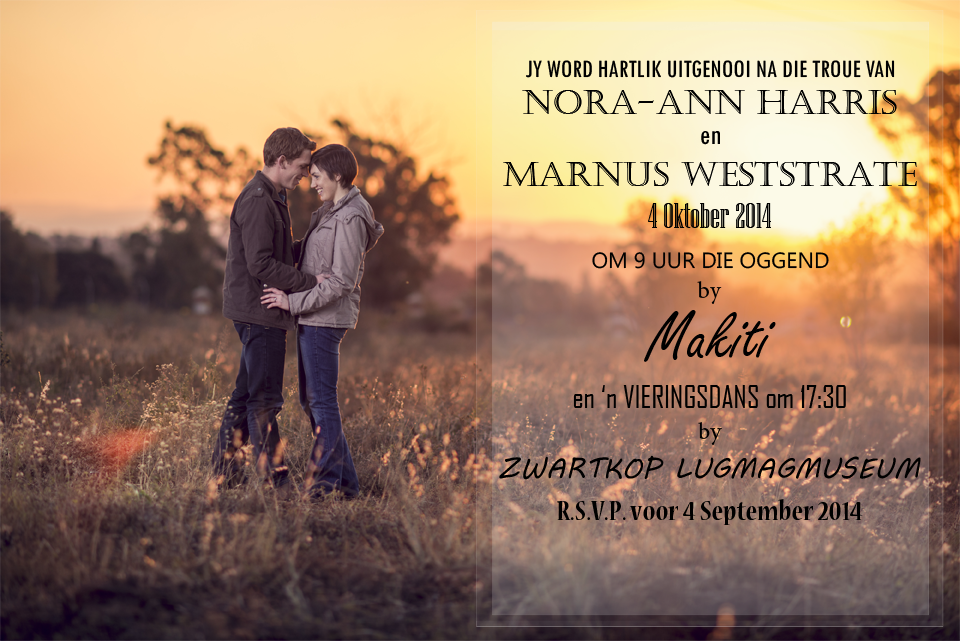
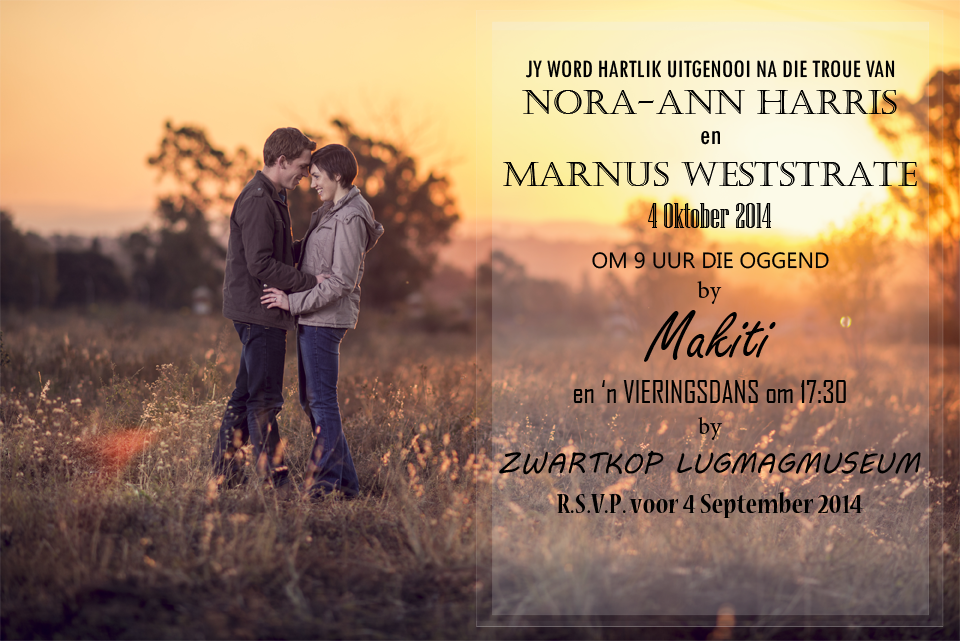
Added RSVP thank you messages and positioned all content.

Changed region(s): [[0.5, 0.5928, 0.9688, 0.8112]]

diff --git a/public/js/main.js b/public/js/main.js
@@ -15,8 +15,10 @@ function queryGuests() {
 }
 
 $(document).ready(function() {
-    queryGuests();
-    resetAnimation();
+    if ($('#invite').length) {
+        queryGuests();
+        resetAnimation();
+    }
 });
 
 $(document).on('click', '#BeginClick', function() {
@@ -48,27 +50,49 @@ $(document).on('click', '#Resubmit', function() {
     showRsvpForm(true);
 });
 
-$(document).on('submit', '#rsvp-form', function() {
-    var gEl = $('input[name="guestRsvp"]:checked');
-    var pEl = $('input[name="partnerRsvp"]:checked');
-    if (!gEl) {
+$(document).on('click', '#rsvp-submit', function() {
+    var gAttend = extractRsvp('guest'),
+        pAttend;
+    if (partner) {
+        pAttend = extractRsvp('partner');
+    }
+    
+    if (!gAttend[0] && !gAttend[1] && !gAttend[2]) {
         alert("Dui asseblief aan of jy die troue sal kan bywoon.");
         return false;
     }
-    if (partner && !pEl) {
+    if (partner && !pAttend[0] && !pAttend[1] && !pAttend[2]) {
         alert("Dui asseblief aan of jou metgesel die troue sal kan bywoon.");
         return false;
     }
-    guest.attendMorning = (guest.inviteMorning & (gEl.val() == 'true' ? true : false)) ? true : false;
-    guest.attendEvening = (guest.inviteEvening & (gEl.val() == 'true' ? true : false)) ? true : false;
+    
+    guest.attendMorning = guest.inviteMorning && gAttend[0];
+    guest.attendEvening = guest.inviteEvening && gAttend[1];
     if (partner) {
-        partner.attendMorning = (partner.inviteMorning & (pEl.val() == 'true' ? true : false)) ? true : false;
-        partner.attendEvening = (partner.inviteEvening & (pEl.val() == 'true' ? true : false)) ? true : false;
+        partner.attendMorning = partner.inviteMorning && pAttend[0];
+        partner.attendEvening = partner.inviteEvening && pAttend[1];
     }
     saveToServer();
     showRsvpDone();
     return false;
 });
+
+$(document).on('click', '.rsvp-change', function() {
+    showRsvpForm(true);
+});
+
+function extractRsvp(type) {
+    if ($('input[name="guestRsvp"]').length) {
+        var attend = $('input[name="'+type+'Rsvp"]:checked').val() == 'true' ? true : false;
+        return [attend, attend, !attend];
+    } else {
+        return [
+            $('input[name="'+type+'RsvpMorn"]').prop('checked'),
+            $('input[name="'+type+'RsvpEven"]').prop('checked'),
+            $('input[name="'+type+'RsvpNo"]').prop('checked')
+        ];
+    }
+}
 
 function resetAnimation() {
     $('body').css({'background':'#fff'});
@@ -105,9 +129,10 @@ function showInfo() {
 
 
 function showRsvpForm(force) {
-    if (!showRsvpDone || force) {
+    if (!force && showRsvpDone()) {
         return;
     }
+    $('#rsvp-form').show();
     $('#rsvp-yes').hide();
     $('#rsvp-no').hide();
     var partnerName = '';
@@ -121,11 +146,11 @@ function showRsvpForm(force) {
 
 function showRsvpDone() {
     $('#rsvp-form').hide();
-    if (guest.attendMorning || guest.attendEvening || partner.attendMorning || partner.attendEvening) {
+    if (guest.attendMorning || guest.attendEvening || (partner && (partner.attendMorning || partner.attendEvening))) {
         $('#rsvp-yes').show();
         $('#rsvp-no').hide();
     } else if (guest.attendMorning !== null || guest.attendEvening !== null || 
-            partner.attendMorning !== null || partner.attendEvening !== null) {
+            (partner && (partner.attendMorning !== null || partner.attendEvening !== null))) {
         $('#rsvp-yes').hide();
         $('#rsvp-no').show();
     } else {
@@ -146,13 +171,18 @@ function setupFor(fullName) {
         inviteUrl = partner ? '/js/views/invite-both.html' : '/js/views/invite-both-single.html';
         infoUrl = '/js/views/info-both.html';
     } else if (guest.inviteMorning) {
-        inviteUrl = partner ? '/js/views/invite-both.html' : '/js/views/invite-morn-single.html';
+        inviteUrl = partner ? '/js/views/invite-morn.html' : '/js/views/invite-morn-single.html';
         infoUrl = '/js/views/info-morn.html';
     } else {
-        inviteUrl = partner ? '/js/views/invite-both.html' : '/js/views/invite-even-single.html';
+        inviteUrl = partner ? '/js/views/invite-even.html' : '/js/views/invite-even-single.html';
         infoUrl = '/js/views/info-even.html';
     }
+    saveViewTimeToServer();
     return true;
+}
+
+function saveViewTimeToServer() {
+    console.log(guest);
 }
 
 function saveToServer() {

diff --git a/public/js/views/invite-both.html b/public/js/views/invite-both.html
@@ -2,24 +2,32 @@
     <div id="invite-names"></div>
     <form id="rsvp-form">
         <div class="line">
+            <span class="rsvp-name unit size1of3 txtr">&nbsp;</span>
+            &nbsp;<span>Ek sal kom:</span>
+        </div>
+        <div class="line">
             <span id="guestName" class="rsvp-name unit size1of3 txtr"></span>
-            &nbsp;<input type="radio" name="guestRsvp" value="true" />&nbsp;<span>Ek sal kom</span>
-            &nbsp;<input type="radio" name="guestRsvp" value="false" />&nbsp;<span>Ek sal nie kan kom nie</span>
+            &nbsp;<input type="checkbox" name="guestRsvpMorn" value="true" /><span>Oggend</span>
+            &nbsp;<input type="checkbox" name="guestRsvpEven" value="true" /><span>Aand</span>
+            &nbsp;<input type="checkbox" name="guestRsvpNo" value="false" /><span>Sal nie kan kom nie</span>
         </div>
         <div class="line">
             <span id="partnerName" class="rsvp-name unit size1of3 txtr"></span>
-            &nbsp;<input type="radio" name="partnerRsvp" value="true" />&nbsp;<span>Ek sal kom</span>
-            &nbsp;<input type="radio" name="partnerRsvp" value="false" />&nbsp;<span>Ek sal nie kan kom nie</span>
+            &nbsp;<input type="checkbox" name="partnerRsvpMorn" value="true" /><span>Oggend</span>
+            &nbsp;<input type="checkbox" name="partnerRsvpEven" value="true" /><span>Aand</span>
+            &nbsp;<input type="checkbox" name="partnerRsvpNo" value="false" /><span>Sal nie kan kom nie</span>
         </div>
         <div class="txtc" style="margin-top: 5px">
-            <button class="btn" type="submit">Gaan voort</button>
+            <button id="rsvp-submit" class="btn">Gaan voort</button>
         </div>
     </form>
     <div id="rsvp-yes">
         <p>Dankie, ons sien uit om julle daar te sien!</p>
+        <a class="rsvp-change">Verander</a>
     </div>
     <div id="rsvp-no">
         <p>Ons sal julle mis! Dankie dat jy laat weet het.</p>
+        <a class="rsvp-change">Verander</a>
     </div>
     <div id="MoreInfo" class="bottom-nav-link"><a>Meer inligting >></a></div>
 </div>

diff --git a/public/js/views/invite-both-single.html b/public/js/views/invite-both-single.html
@@ -1,20 +1,27 @@
 <div class="detail-page" style="background: url(/img/InviteBothSingle.png);">
     <div id="invite-names"></div>
-    <form id="rsvp-form">
+    <form id="rsvp-form" style="bottom: 22px;">
+        <div class="line">
+            <span class="rsvp-name unit size1of3 txtr">&nbsp;</span>
+            &nbsp;<span>Ek sal kom:</span>
+        </div>
         <div class="line">
             <span id="guestName" class="rsvp-name unit size1of3 txtr"></span>
-            &nbsp;<input type="radio" name="guestRsvp" value="true" />&nbsp;<span>Ek sal kom</span>
-            &nbsp;<input type="radio" name="guestRsvp" value="false" />&nbsp;<span>Ek sal nie kan kom nie</span>
+            &nbsp;<input type="checkbox" name="guestRsvpMorn" value="true" /><span>Oggend</span>
+            &nbsp;<input type="checkbox" name="guestRsvpEven" value="true" /><span>Aand</span>
+            &nbsp;<input type="checkbox" name="guestRsvpNo" value="false" /><span>Sal nie kan kom nie</span>
         </div>
-        <div class="txtc" style="margin-top: 5px">
-            <button class="btn" type="submit">Gaan voort</button>
+        <div class="txtc" style="margin-top: 12px">
+            <button id="rsvp-submit" class="btn">Gaan voort</button>
         </div>
     </form>
     <div id="rsvp-yes">
         <p>Dankie, ons sien uit om jou daar te sien!</p>
+        <a class="rsvp-change">Verander</a>
     </div>
     <div id="rsvp-no">
         <p>Ons sal jou mis! Dankie dat jy laat weet het.</p>
+        <a class="rsvp-change">Verander</a>
     </div>
     <div id="MoreInfo" class="bottom-nav-link"><a>Meer inligting >></a></div>
 </div>

diff --git a/public/js/views/invite-morn.html b/public/js/views/invite-morn.html
@@ -1,6 +1,6 @@
 <div class="detail-page" style="background: url(/img/InviteMorning.png);">
-    <div id="invite-names"></div>
-    <form id="rsvp-form">
+    <div id="invite-names" style="top: 36px;"></div>
+    <form id="rsvp-form" style="bottom: 18px;">
         <div class="line">
             <span id="guestName" class="rsvp-name unit size1of3 txtr"></span>
             &nbsp;<input type="radio" name="guestRsvp" value="true" />&nbsp;<span>Ek sal kom</span>
@@ -11,15 +11,17 @@
             &nbsp;<input type="radio" name="partnerRsvp" value="true" />&nbsp;<span>Ek sal kom</span>
             &nbsp;<input type="radio" name="partnerRsvp" value="false" />&nbsp;<span>Ek sal nie kan kom nie</span>
         </div>
-        <div class="txtc" style="margin-top: 5px">
-            <button class="btn" type="submit">Gaan voort</button>
+        <div class="txtc" style="margin-top: 10px">
+            <button id="rsvp-submit" class="btn">Gaan voort</button>
         </div>
     </form>
     <div id="rsvp-yes">
         <p>Dankie, ons sien uit om julle daar te sien!</p>
+        <a class="rsvp-change">Verander</a>
     </div>
     <div id="rsvp-no">
         <p>Ons sal julle mis! Dankie dat jy laat weet het.</p>
+        <a class="rsvp-change">Verander</a>
     </div>
     <div id="MoreInfo" class="bottom-nav-link"><a>Meer inligting >></a></div>
 </div>

diff --git a/public/js/views/invite-even.html b/public/js/views/invite-even.html
@@ -1,6 +1,6 @@
 <div class="detail-page" style="background: url(/img/InviteEvening.png);">
-    <div id="invite-names"></div>
-    <form id="rsvp-form">
+    <div id="invite-names" style="top: 34px;"></div>
+    <form id="rsvp-form" style="bottom: 18px;">
         <div class="line">
             <span id="guestName" class="rsvp-name unit size1of3 txtr"></span>
             &nbsp;<input type="radio" name="guestRsvp" value="true" />&nbsp;<span>Ek sal kom</span>
@@ -11,15 +11,17 @@
             &nbsp;<input type="radio" name="partnerRsvp" value="true" />&nbsp;<span>Ek sal kom</span>
             &nbsp;<input type="radio" name="partnerRsvp" value="false" />&nbsp;<span>Ek sal nie kan kom nie</span>
         </div>
-        <div class="txtc" style="margin-top: 5px">
-            <button class="btn" type="submit">Gaan voort</button>
+        <div class="txtc" style="margin-top: 8px">
+            <button id="rsvp-submit" class="btn">Gaan voort</button>
         </div>
     </form>
     <div id="rsvp-yes">
         <p>Dankie, ons sien uit om julle daar te sien!</p>
+        <a class="rsvp-change">Verander</a>
     </div>
     <div id="rsvp-no">
         <p>Ons sal julle mis! Dankie dat jy laat weet het.</p>
+        <a class="rsvp-change">Verander</a>
     </div>
     <div id="MoreInfo" class="bottom-nav-link"><a>Meer inligting >></a></div>
 </div>

diff --git a/public/js/views/invite-even-single.html b/public/js/views/invite-even-single.html
@@ -1,20 +1,22 @@
 <div class="detail-page" style="background: url(/img/InviteEveningSingle.png);">
-    <div id="invite-names"></div>
-    <form id="rsvp-form">
+    <div id="invite-names" style="top: 34px;"></div>
+    <form id="rsvp-form" style="bottom: 22px;">
         <div class="line">
             <span id="guestName" class="rsvp-name unit size1of3 txtr"></span>
             &nbsp;<input type="radio" name="guestRsvp" value="true" />&nbsp;<span>Ek sal kom</span>
             &nbsp;<input type="radio" name="guestRsvp" value="false" />&nbsp;<span>Ek sal nie kan kom nie</span>
         </div>
-        <div class="txtc" style="margin-top: 5px">
-            <button class="btn" type="submit">Gaan voort</button>
+        <div class="txtc" style="margin-top: 12px">
+            <button id="rsvp-submit" class="btn">Gaan voort</button>
         </div>
     </form>
     <div id="rsvp-yes">
         <p>Dankie, ons sien uit om jou daar te sien!</p>
+        <a class="rsvp-change">Verander</a>
     </div>
     <div id="rsvp-no">
         <p>Ons sal jou mis! Dankie dat jy laat weet het.</p>
+        <a class="rsvp-change">Verander</a>
     </div>
     <div id="MoreInfo" class="bottom-nav-link"><a>Meer inligting >></a></div>
 </div>

diff --git a/public/js/views/invite-morn-single.html b/public/js/views/invite-morn-single.html
@@ -1,20 +1,22 @@
 <div class="detail-page" style="background: url(/img/InviteMorningSingle.png);">
-    <div id="invite-names"></div>
-    <form id="rsvp-form">
+    <div id="invite-names" style="top: 36px;"></div>
+    <form id="rsvp-form" style="bottom: 22px;">
         <div class="line">
             <span id="guestName" class="rsvp-name unit size1of3 txtr"></span>
             &nbsp;<input type="radio" name="guestRsvp" value="true" />&nbsp;<span>Ek sal kom</span>
             &nbsp;<input type="radio" name="guestRsvp" value="false" />&nbsp;<span>Ek sal nie kan kom nie</span>
         </div>
-        <div class="txtc" style="margin-top: 5px">
-            <button class="btn" type="submit">Gaan voort</button>
+        <div class="txtc" style="margin-top: 12px">
+            <button id="rsvp-submit" class="btn">Gaan voort</button>
         </div>
     </form>
     <div id="rsvp-yes">
         <p>Dankie, ons sien uit om jou daar te sien!</p>
+        <a class="rsvp-change">Verander</a>
     </div>
     <div id="rsvp-no">
         <p>Ons sal jou mis! Dankie dat jy laat weet het.</p>
+        <a class="rsvp-change">Verander</a>
     </div>
     <div id="MoreInfo" class="bottom-nav-link"><a>Meer inligting >></a></div>
 </div>

diff --git a/public/css/app.css b/public/css/app.css
@@ -203,7 +203,7 @@ input.short {
     top: 30px;
 }
 
-#rsvp-form {
+#rsvp-yes, #rsvp-no, #rsvp-form {
     font-family: "Comic Sans MS", cursive, sans-serif;
     font-weight: bold;
     font-size: 14px;
@@ -214,8 +214,30 @@ input.short {
     color: #000;
 }
 
+#rsvp-form input[type=checkbox] {
+    margin-right: 2px;
+}
+
 #rsvp-form .btn {
     font-weight: bold;
+}
+
+#rsvp-yes, #rsvp-no {
+    text-align: center;
+    bottom: 66px;
+}
+
+#rsvp-yes a, #rsvp-no a, #rsvp-yes p, #rsvp-no p {
+    font-family: "Comic Sans MS", cursive, sans-serif;
+    font-weight: bold;
+    font-size: 16px;
+    color: #000;
+    margin-bottom: 0;
+}
+
+#rsvp-yes a, #rsvp-no a {
+    text-decoration: underline;
+    font-size: 14px;
 }
 
 .rsvp-name {

diff --git a/public/js/admin/app.js b/public/js/admin/app.js
@@ -6,7 +6,6 @@ angular.module('troue', [
   'ngResource',
   'ngSanitize',
   'ui.bootstrap.position',
-  'ui.bootstrap.typeahead',
   'ui.bootstrap.datepicker',
   'troue.filters',
   'troue.services',
